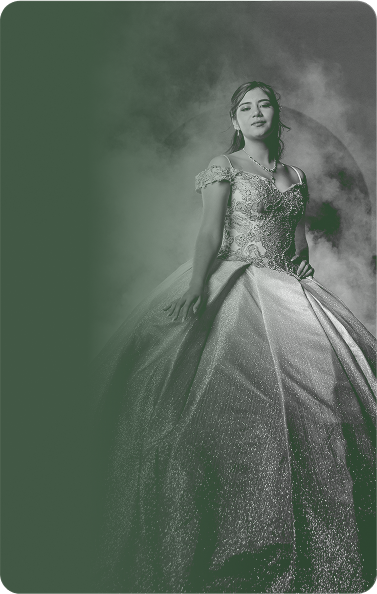
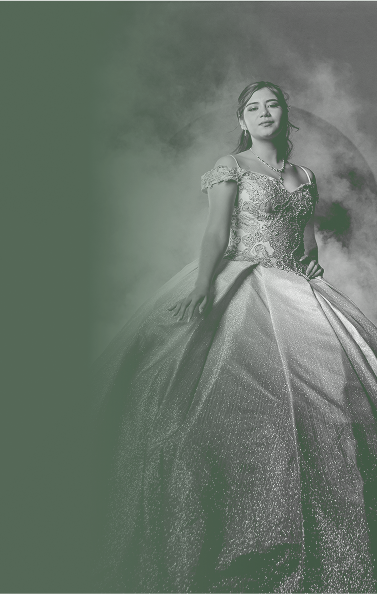
maps + responsive added

diff --git a/src/app/page.tsx b/src/app/page.tsx
@@ -1,98 +1,159 @@
 import Image from "next/image";
 import MainCarousel from "./components/Carousel";
 import MapsDrawer from "./components/MapsDrawer";
+import DressCodeGrid from "./components/DressCodeGrid";
+import { Collapse } from "antd";
 
 const Home: React.FC = () => {
+  const FAQs = [
+    {
+      key: "1",
+      label: "¿Puedo llevar a una persona extra?",
+      children:
+        "La invitación es para la cantidad de personas previamente asignadas",
+    },
+    {
+      key: "2",
+      label: "¿Regalo de sobre o libre?",
+      children: "TBD",
+    },
+    {
+      key: "3",
+      label: "¿Es cena bailable?",
+      children:
+        "Si, es cena con un espacio para que todos disfrutemos bailando",
+    },
+    {
+      key: "4",
+      label: "¿Es fiesta apta para niños?",
+      children: "Si, es una fiesta de ambiente familiar",
+    },
+  ];
+
   return (
-    <div className="flex flex-col font-[family-name:var(--font-hahmlet)]">
-      <div className="flex flex-col gap-[24px] items-center p-[40px_24px] bg-[url(/icons/green-flower-icon.svg)] bg-no-repeat bg-contain bg-[left_top_50px]">
-        <Image
-          src={"/icons/rose-icon.svg"}
-          width={52}
-          height={96}
-          alt="Rose Icon"
-        />
-        <div className="flex flex-col gap-[16px] items-center bg-[url(/shadows/green-shadow.png)] bg-no-repeat bg-contain bg-[center_top_-60px]">
-          <h1>Mi Historia</h1>
-          <p className="text-center text-[14px] font-light">
-            Mi historia comienza así…
-            <br />
-            <br /> Hace varios años comenzó mi historia en esta familia. No
-            tengo la noción de aquellos primeros momentos, pero sé que fue un
-            inicio caótico: entre una apendicitis y el embarazo de mi mamá, este
-            caos dio paso al comienzo de una vida llena de alegrías, desafíos y
-            enojos. Sumando momentos de aprendizaje junto al resto de mi
-            familia. A lo largo de los años y con la ayuda de amistades y seres
-            queridos, he creado aventuras cotidianas que me ayudado a crecer.
-            <br />
-            <br />
-            Estos quince años han estado llenos de momentos significativos, en
-            los que he tenido la fortuna de contar con mis padres y hermanos.
-            Hemos festejado juntos las victorias y enfrentado los desafíos que
-            la vida nos ha puesto en el camino, y sin olvidar esas amistades que
-            están presentes siempre. Ahora entiendo la importancia de los
-            recuerdos. Teniendo a tantas personas a las que quiero, aunque no
-            las vea tan seguido como me gustaría. Personas que se preocupan por
-            mí, que me aconsejan con cariño, que desean mi bienestar. Personas
-            que han soportado mis malos días y han celebrado conmigo los buenos.
-            Hoy me acordé de ustedes, porque los tengo presente.
-            <br />
-            <br />Y especialmente, <b>me acordé de ti</b>. Porque has estado
-            presente durante estos años, me has acompañado, y deseo que también
-            estés conmigo en esta noche tan especial, en la que celebro mis 15
-            años.
-            <br />
-            <br />Y por eso, hoy quiero detenerme un momento para *darte las
-            gracias*. No hay palabras que puedan describir lo que significa para
-            mí tenerlos a mi lado, acompañándome en este viaje llamado vida.
-            Estoy profundamente ansiosa por compartir mi celebración y por
-            seguir construyendo recuerdos juntos.
-            <br />
-            <br />
-            ¡Gracias por ser parte de mi historia!
-          </p>
-        </div>
-        <div className="block w-full">
-          <MainCarousel />
-        </div>
-      </div>
-      <div className="flex flex-col gap-[40px] items-center p-[40px_24px]">
-        <div className="flex flex-col gap-[8px] items-center">
-          <h4>Por eso...</h4>
-          <h2 className="text-center">¡Celebremos mis 15 años!</h2>
-          <p className="text-center text-[14px] font-light">
-            Estoy emocionada de compartir este momento tan especial contigo.
-          </p>
-        </div>
-        <div className="bg-[url(/bgs/info-bg.png)] bg-no-repeat bg-cover w-full h-[593px] rounded-[20px] flex flex-col gap-[24px] justify-end p-[24px]">
-          <div className="flex flex-col">
-            <h3 className="text-[28px] font-medium">Sábado 22 de Marzo</h3>
-            <h4 className="text-[20px] font-light">Hora: 7:00 PM</h4>
-            <p className="font-light text-[16px]">En Alegr&iacute;a Eventos</p>
+    <div className="flex flex-col items-center">
+      <div className="flex flex-col font-[family-name:var(--font-hahmlet)] w-full sm:max-w-[450px]">
+        <div className="flex flex-col gap-[24px] items-center p-[40px_24px] bg-[url(/icons/green-flower-icon.svg)] bg-no-repeat bg-contain bg-[left_top_50px]">
+          <Image
+            src={"/icons/rose-icon.svg"}
+            width={52}
+            height={96}
+            alt="Rose Icon"
+          />
+          <div className="flex flex-col gap-[16px] items-center bg-[url(/shadows/green-shadow.png)] bg-no-repeat bg-contain bg-[center_top_-60px]">
+            <h1>Mi Historia</h1>
+            <p className="text-center text-[14px] font-light">
+              Mi historia comienza así…
+              <br />
+              <br /> Hace varios años comenzó mi historia en esta familia. No
+              tengo la noción de aquellos primeros momentos, pero sé que fue un
+              inicio caótico: entre una apendicitis y el embarazo de mi mamá,
+              este caos dio paso al comienzo de una vida llena de alegrías,
+              desafíos y enojos. Sumando momentos de aprendizaje junto al resto
+              de mi familia. A lo largo de los años y con la ayuda de amistades
+              y seres queridos, he creado aventuras cotidianas que me ayudado a
+              crecer.
+              <br />
+              <br />
+              Estos quince años han estado llenos de momentos significativos, en
+              los que he tenido la fortuna de contar con mis padres y hermanos.
+              Hemos festejado juntos las victorias y enfrentado los desafíos que
+              la vida nos ha puesto en el camino, y sin olvidar esas amistades
+              que están presentes siempre. Ahora entiendo la importancia de los
+              recuerdos. Teniendo a tantas personas a las que quiero, aunque no
+              las vea tan seguido como me gustaría. Personas que se preocupan
+              por mí, que me aconsejan con cariño, que desean mi bienestar.
+              Personas que han soportado mis malos días y han celebrado conmigo
+              los buenos. Hoy me acordé de ustedes, porque los tengo presente.
+              <br />
+              <br />Y especialmente, <b>me acordé de ti</b>. Porque has estado
+              presente durante estos años, me has acompañado, y deseo que
+              también estés conmigo en esta noche tan especial, en la que
+              celebro mis 15 años.
+              <br />
+              <br />Y por eso, hoy quiero detenerme un momento para *darte las
+              gracias*. No hay palabras que puedan describir lo que significa
+              para mí tenerlos a mi lado, acompañándome en este viaje llamado
+              vida. Estoy profundamente ansiosa por compartir mi celebración y
+              por seguir construyendo recuerdos juntos.
+              <br />
+              <br />
+              ¡Gracias por ser parte de mi historia!
+            </p>
           </div>
-          {/* <Button className="w-fit h-fit p-[12px_24px_16px] rounded-[50px] font-[family-name:var(--font-hahmlet)] text-[#2D4530] text-[18px]">
+          <div className="block w-full">
+            <MainCarousel />
+          </div>
+        </div>
+        <div className="flex flex-col gap-[40px] items-center p-[40px_24px]">
+          <div className="flex flex-col gap-[8px] items-center">
+            <h4>Por eso...</h4>
+            <h2 className="text-center">¡Celebremos mis 15 años!</h2>
+            <p className="text-center text-[14px] font-light">
+              Estoy emocionada de compartir este momento tan especial contigo.
+            </p>
+          </div>
+          <div className="bg-[url(/bgs/info-bg-mobile.png)] bg-no-repeat bg-cover bg-[100%_center] w-full h-[593px] rounded-[20px] flex flex-col gap-[24px] justify-end p-[24px]">
+            <div className="flex flex-col">
+              <h3 className="text-[28px] font-medium">Sábado 22 de Marzo</h3>
+              <h4 className="text-[20px] font-light">Hora: 6:00 PM</h4>
+              <p className="font-light text-[16px]">
+                En Alegr&iacute;a Eventos
+              </p>
+              <p className="text-[#FFF]/80 italic font-thin">
+                Por favor, intenta <b>llegar a tiempo</b> para que disfrutes de
+                mi acto de entrada
+              </p>
+            </div>
+            {/* <Button className="w-fit h-fit p-[12px_24px_16px] rounded-[50px] font-[family-name:var(--font-hahmlet)] text-[#2D4530] text-[18px]">
             Confirmar
           </Button> */}
-        </div>
-        <div className="w-full p-[24px] rounded-[20px] bg-[#FFF]/10">
-          <h2 className="mb-[24px]">Sobre el lugar</h2>
-          <div className="flex flex-col gap-[32px]">
-            <div className="flex flex-col gap-[8px]">
-              <label className="text-[#FFF]/50">Direcci&oacute;n:</label>
-              <p>C. Las Palmas #229, San Salvador</p>
-            </div>
-            <Image
-              src={"/location_image_mobile.png"}
-              alt="Location Image"
-              width={1017}
-              height={624}
-              className="rounded-[16px]"
-            />
-            <MapsDrawer />
-            {/* <p className="text-[#FFF]/80 italic font-thin">
+          </div>
+          <div className="w-full p-[24px] rounded-[20px] bg-[#FFF]/10">
+            <h2 className="mb-[24px]">Sobre el lugar</h2>
+            <div className="flex flex-col gap-[32px]">
+              <div className="flex flex-col gap-[8px]">
+                <label className="text-[#FFF]/50">Direcci&oacute;n:</label>
+                <p>C. Las Palmas #229, San Salvador</p>
+              </div>
+              <Image
+                src={"/location_image_mobile.png"}
+                alt="Location Image"
+                width={1017}
+                height={624}
+                className="rounded-[16px]"
+              />
+              <MapsDrawer />
+              {/* <p className="text-[#FFF]/80 italic font-thin">
               Hay parqueo disponible para todos los invitados. Si necesitas
               ayuda para llegar, podemos coordinar transporte.
             </p> */}
+            </div>
+          </div>
+          <div className="flex flex-col gap-[24px] items-center">
+            <div className="flex flex-col gap-[40px] items-center">
+              <h2>C&oacute;digo de vestimenta</h2>
+              <p className="text-center">
+                Para esta noche tan especial, el código de vestimenta será con
+                colores sugeridos en tonos neutros y pastel como beige, rosa
+                viejo, verde oliva y gris claro. Queremos que luzcas increíble y
+                que el ambiente refleje armonía y sofisticación.
+                <br />
+                <br />
+                Si necesitas inspiración, aquí encontrarás algunas ideas de
+                outfits que combinan con la temática del evento.
+              </p>
+            </div>
+            <DressCodeGrid />
+          </div>
+
+          <div className="flex flex-col gap-[24px] items-center w-full">
+            <h2 className="leaf-title">Preguntas Frecuentes</h2>
+            <Collapse
+              size="large"
+              className="w-full faq-collapse"
+              items={FAQs}
+            />
           </div>
         </div>
       </div>

diff --git a/src/app/components/Navbar/index.tsx b/src/app/components/Navbar/index.tsx
@@ -22,7 +22,7 @@ const MainNavbar = () => {
   );
   return (
     <div className="main-navbar">
-      <Sider
+      {/* <Sider
         breakpoint="lg"
         collapsedWidth="0"
         trigger={null}
@@ -42,15 +42,15 @@ const MainNavbar = () => {
             className="main-menu"
           />
         </div>
-      </Sider>
-      <div className="flex flex-row justify-between border-b border-[#FFF]/25 py-[18px] px-[24px]">
+      </Sider> */}
+      <div className="flex flex-row justify-center border-b border-[#FFF]/25 py-[18px] px-[24px]">
         <Logo />
-        <Button
+        {/* <Button
           onClick={() => setCollapsed(!collapsed)}
           className="bg-transparent border-none text-white hover:bg-transparent hover:border-none"
         >
           <MenuOutlined />
-        </Button>
+        </Button> */}
       </div>
     </div>
   );

diff --git a/src/app/globals.scss b/src/app/globals.scss
@@ -39,3 +39,45 @@ b {
     padding: 0;
   }
 }
+
+.leaf-title {
+  display: flex;
+  flex-direction: row;
+  align-items: center;
+  place-content: center;
+  gap: 12px;
+
+  width: 100%;
+
+  &::before,
+  &::after {
+    content: "";
+    display: none;
+    width: 30%;
+    height: 20px;
+  }
+
+  &::before {
+    background: url(/icons/leaf-left.svg) no-repeat center center / contain;
+  }
+
+  &::after {
+    background: url(/icons/leaf-right.svg) no-repeat center center / contain;
+  }
+}
+
+.faq-collapse {
+  border: none !important;
+  background: #ffffff1a;
+  .ant-collapse-header {
+    .ant-collapse-expand-icon,
+    .ant-collapse-header-text {
+      color: white;
+    }
+  }
+
+  .ant-collapse-content {
+    background: #ffffff1a;
+    color: white;
+  }
+}

diff --git a/src/app/components/DressCodeGrid/index.tsx b/src/app/components/DressCodeGrid/index.tsx
@@ -1,0 +1,28 @@
+import Image from "next/image";
+
+const DressCodeGrid = () => {
+  const images = [
+    "/dress_code/image_1.png",
+    "/dress_code/image_2.png",
+    "/dress_code/image_3.png",
+    "/dress_code/image_4.png",
+    "/dress_code/image_5.png",
+    "/dress_code/image_6.png",
+  ];
+  return (
+    <div className="grid grid-cols-2 gap-4">
+      {images.map((image, index) => (
+        <div key={index} className="w-full">
+          <Image
+            src={image}
+            alt={`Dress Code ${index + 1}`}
+            width={211}
+            height={278}
+          />
+        </div>
+      ))}
+    </div>
+  );
+};
+
+export default DressCodeGrid;

diff --git a/src/app/components/Carousel/index.tsx b/src/app/components/Carousel/index.tsx
@@ -4,7 +4,7 @@ import Image from "next/image";
 
 const MainCarousel = () => {
   return (
-    <Carousel autoplay fade dots={false}>
+    <Carousel autoplay fade arrows dots={false}>
       {Array(15)
         .fill(null)
         .map((_, index) => (
